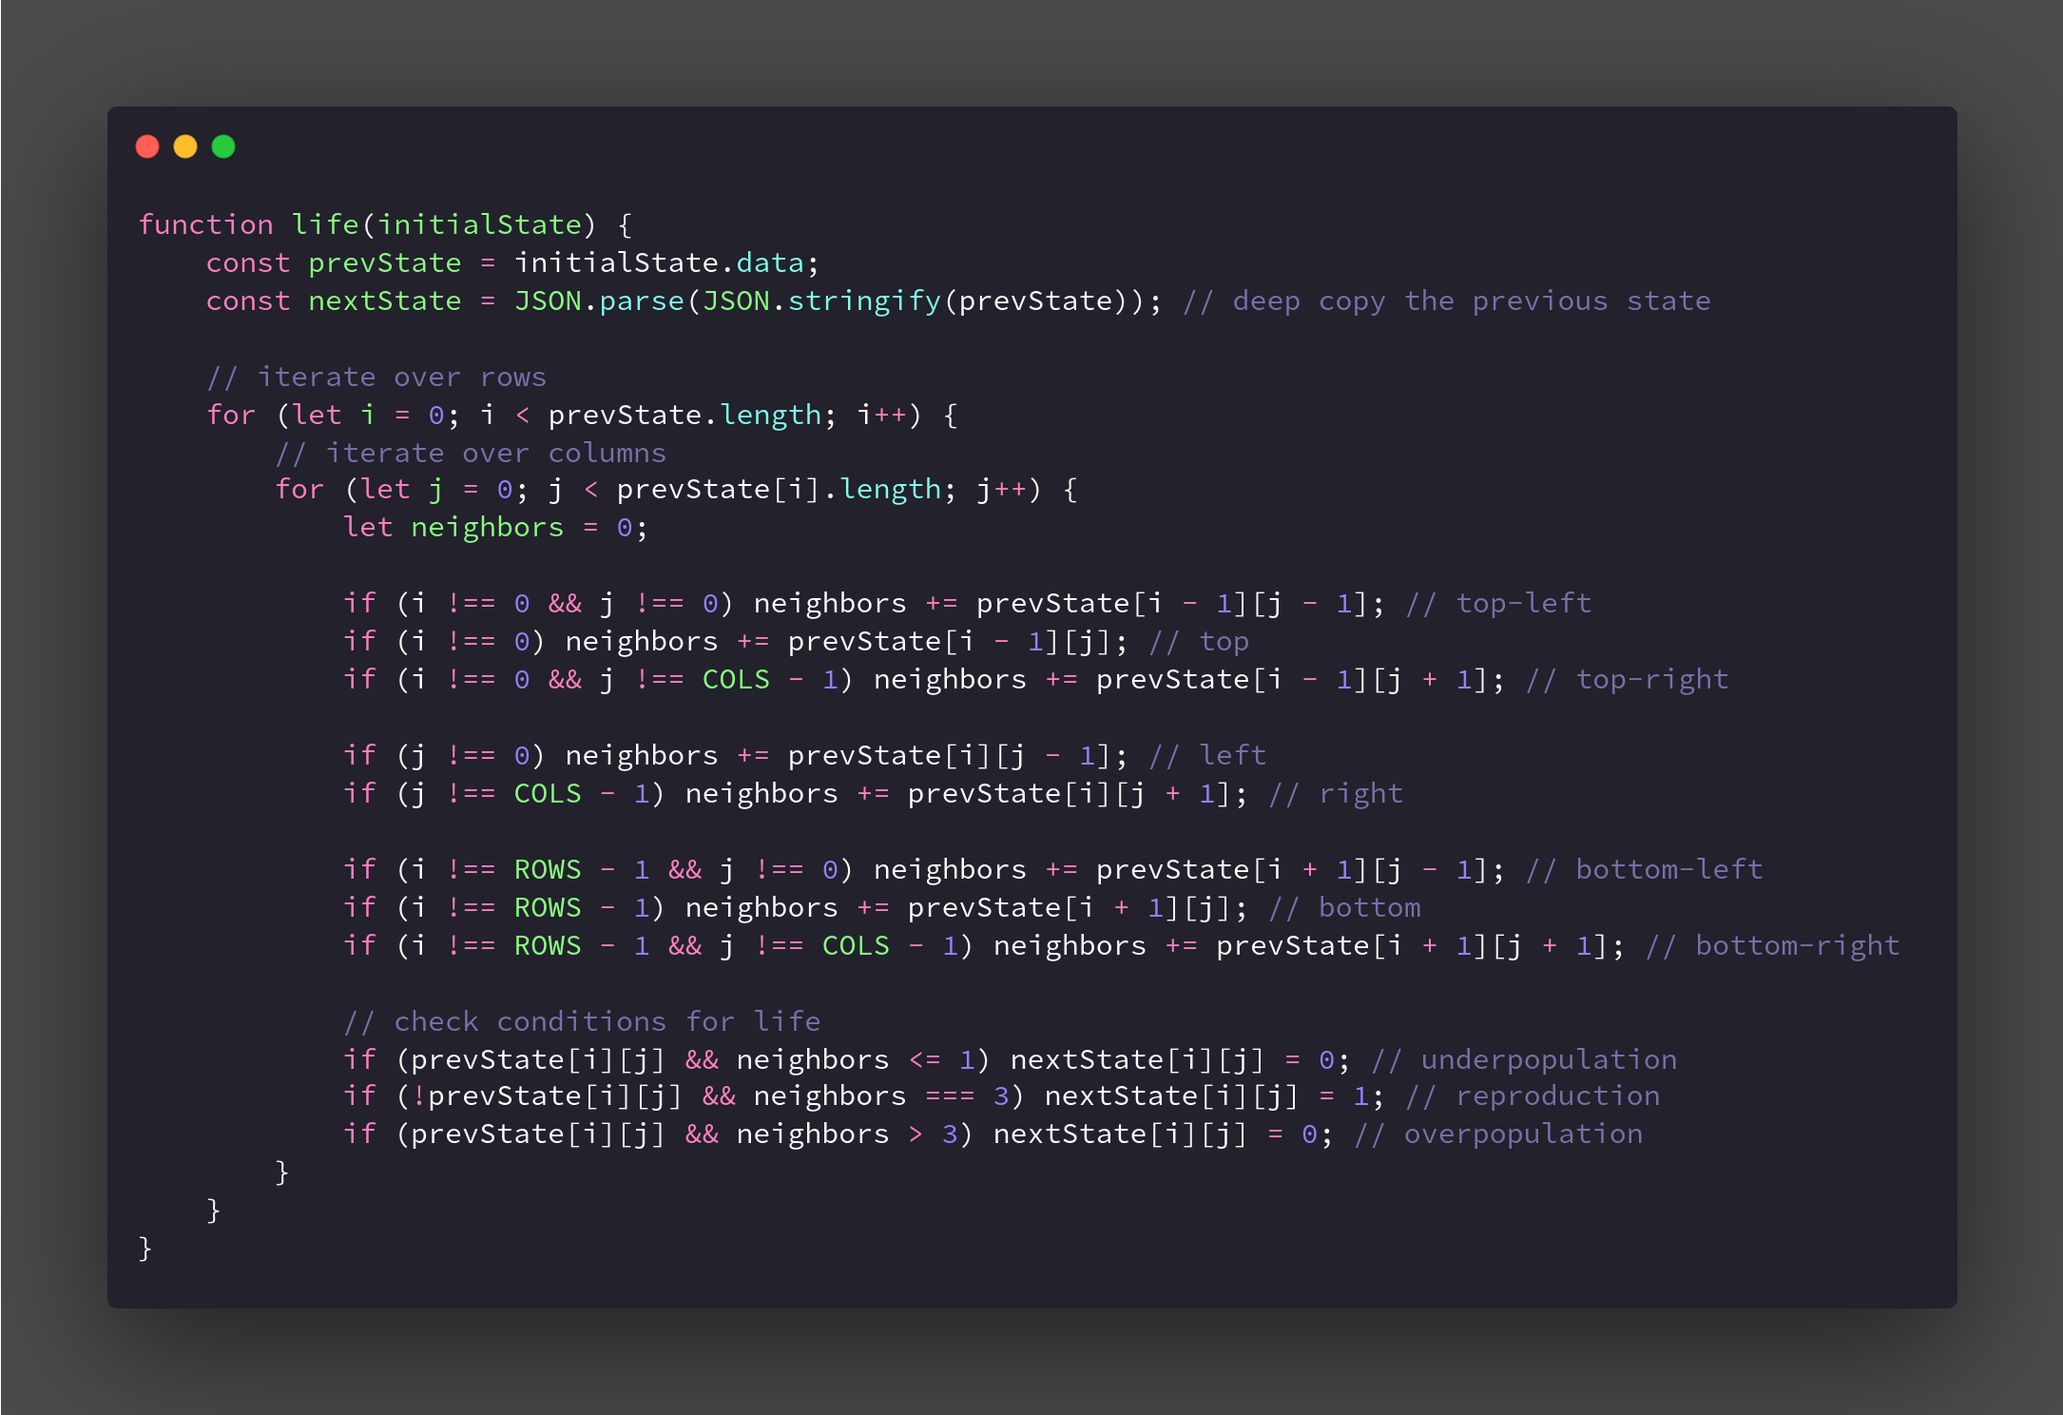
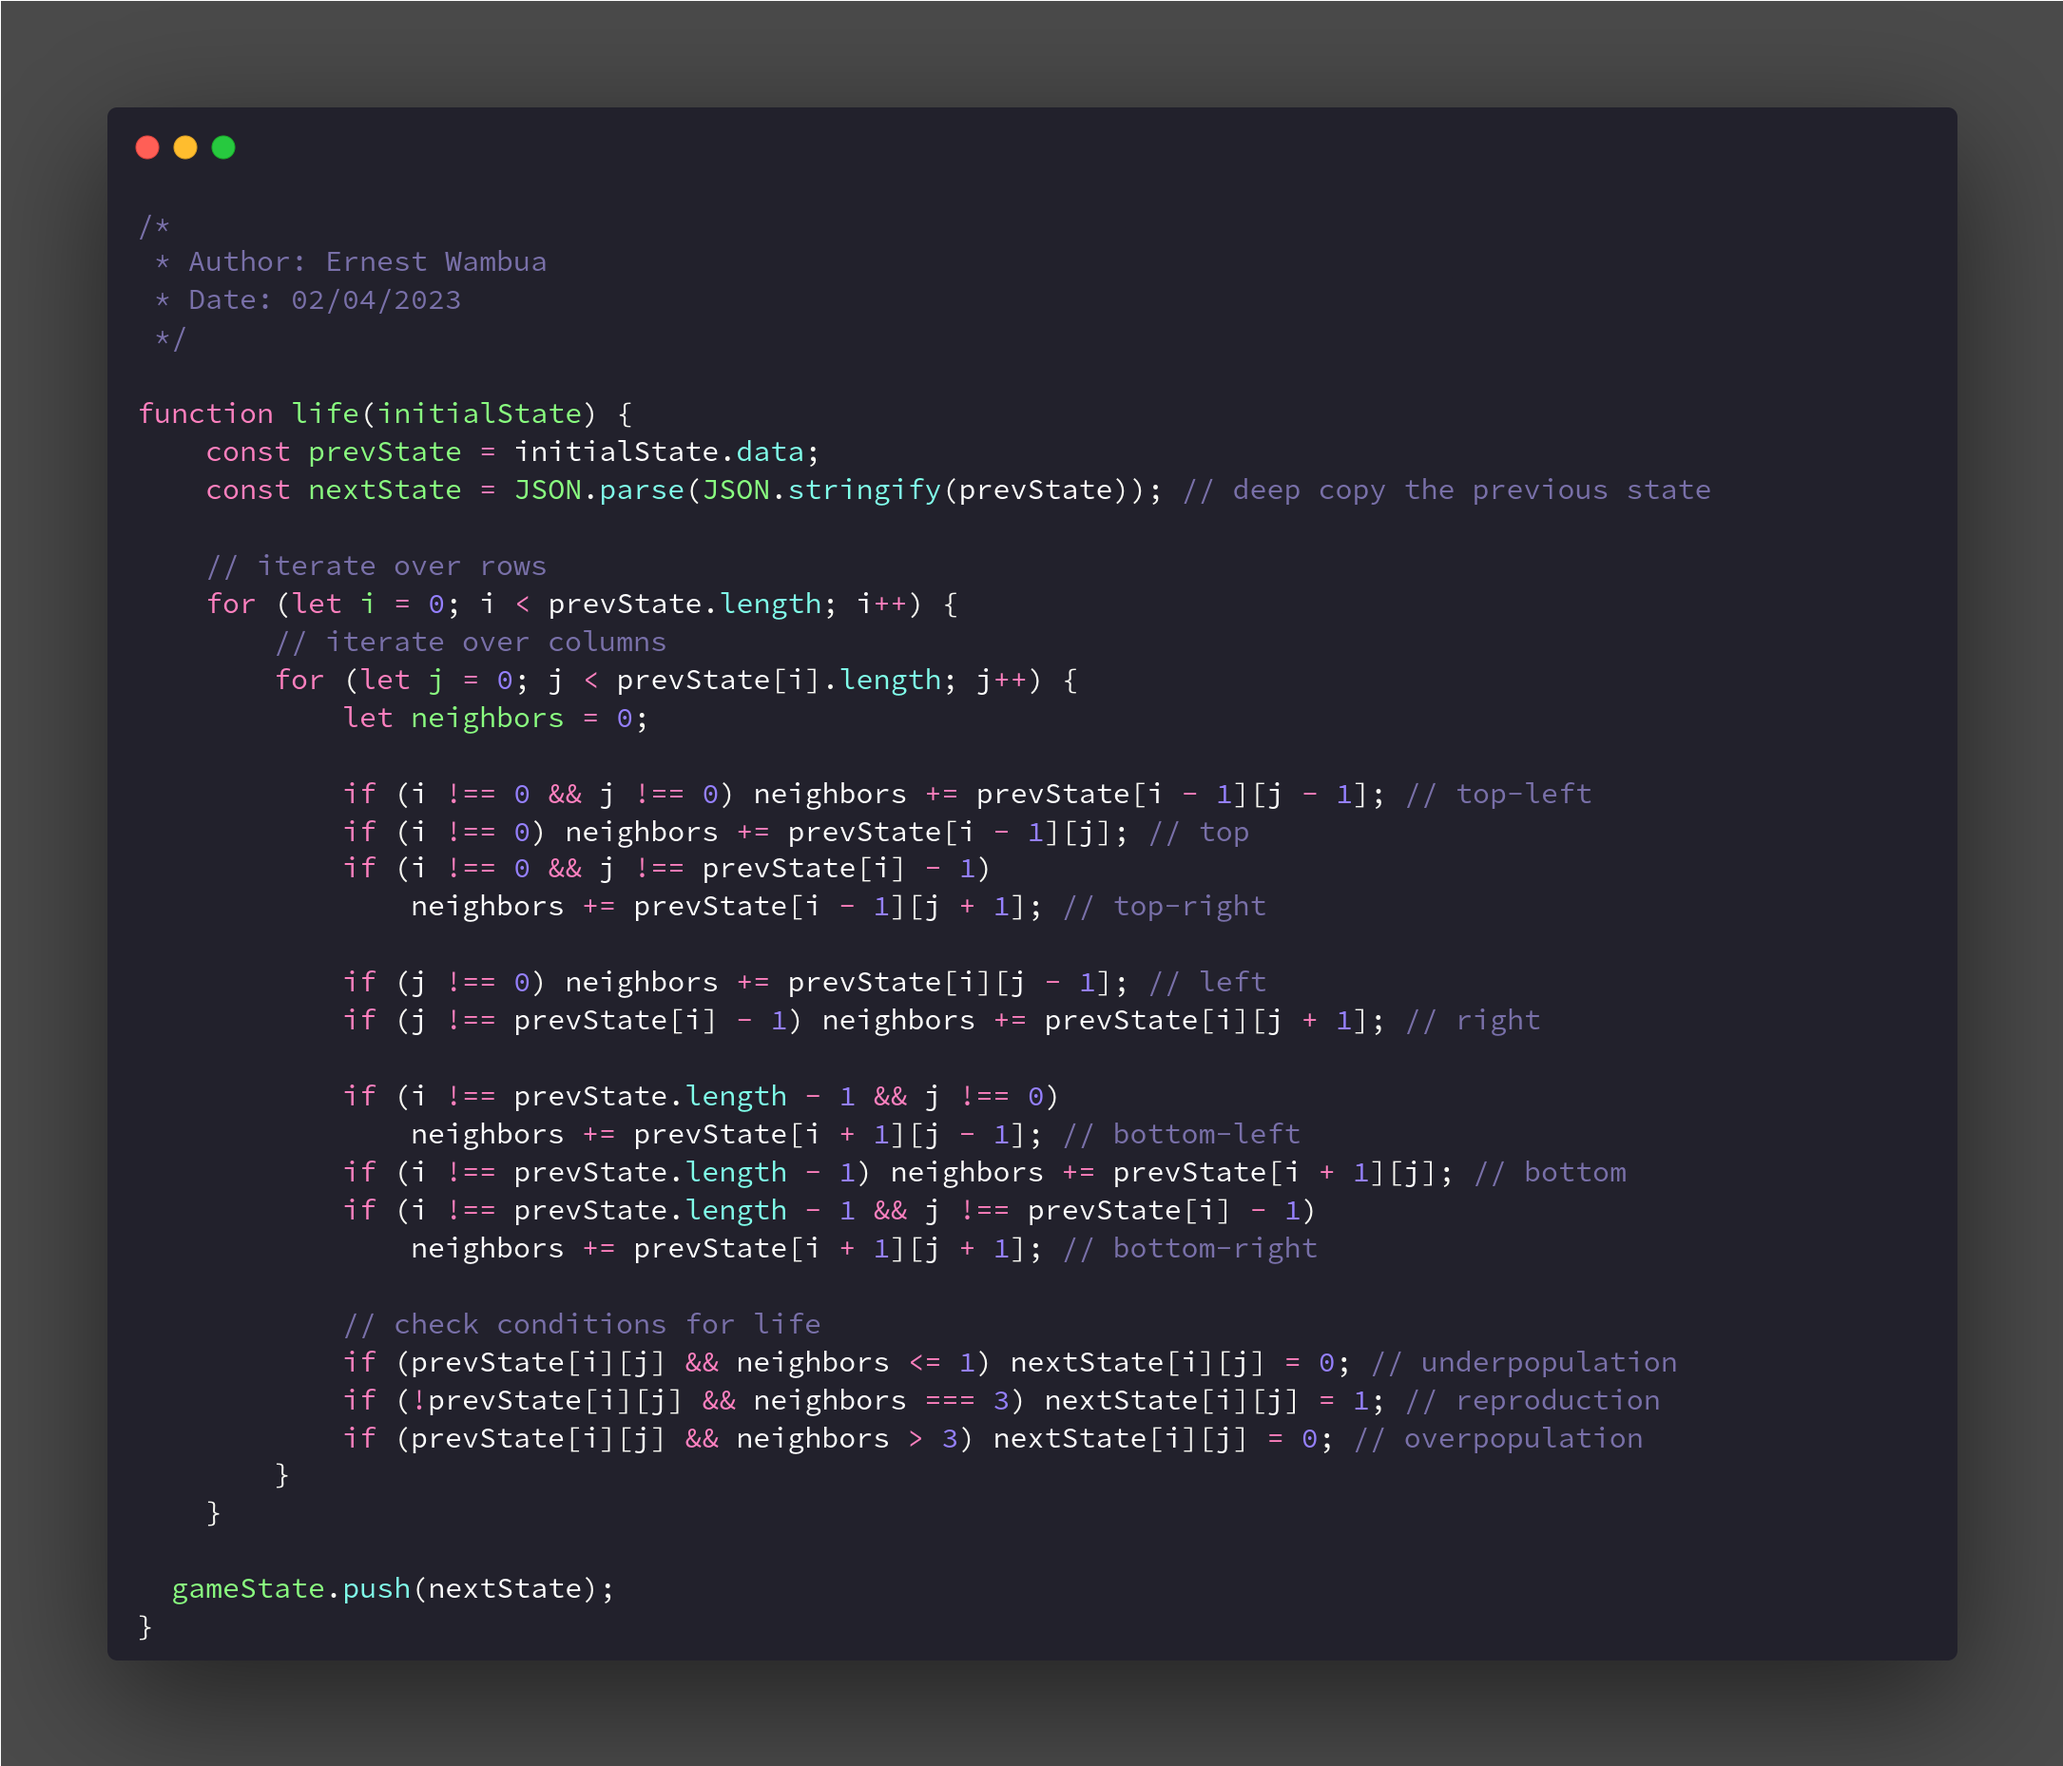
Conway's Game of Life

diff --git a/main.js b/main.js
@@ -93,30 +93,33 @@ function generateStartState(startState) {
 }
 
 function life(initialState) {
-	const cells = initialState.data;
-	const nextStateData = JSON.parse(JSON.stringify(cells)); // deep copy
+	const prevState = initialState.data;
+	const nextStateData = JSON.parse(JSON.stringify(prevState)); // deep copy the previous state
 
 	// iterate over rows
-	for (let i = 0; i < cells.length; i++) {
+	for (let i = 0; i < prevState.length; i++) {
 		// iterate over columns
-		for (let j = 0; j < cells[i].length; j++) {
+		for (let j = 0; j < prevState[i].length; j++) {
 			let neighbors = 0;
 
-			if (i !== 0 && j !== 0) neighbors += cells[i - 1][j - 1]; // top-left
-			if (i !== 0) neighbors += cells[i - 1][j]; // top
-			if (i !== 0 && j !== COLS - 1) neighbors += cells[i - 1][j + 1]; // top-right
+			if (i !== 0 && j !== 0) neighbors += prevState[i - 1][j - 1]; // top-left
+			if (i !== 0) neighbors += prevState[i - 1][j]; // top
+			if (i !== 0 && j !== prevState[i] - 1)
+				neighbors += prevState[i - 1][j + 1]; // top-right
 
-			if (j !== 0) neighbors += cells[i][j - 1]; // left
-			if (j !== COLS - 1) neighbors += cells[i][j + 1]; // right
+			if (j !== 0) neighbors += prevState[i][j - 1]; // left
+			if (j !== prevState[i] - 1) neighbors += prevState[i][j + 1]; // right
 
-			if (i !== ROWS - 1 && j !== 0) neighbors += cells[i + 1][j - 1]; // bottom-left
-			if (i !== ROWS - 1) neighbors += cells[i + 1][j]; // bottom
-			if (i !== ROWS - 1 && j !== COLS - 1) neighbors += cells[i + 1][j + 1]; // bottom-right
+			if (i !== prevState.length - 1 && j !== 0)
+				neighbors += prevState[i + 1][j - 1]; // bottom-left
+			if (i !== prevState.length - 1) neighbors += prevState[i + 1][j]; // bottom
+			if (i !== prevState.length - 1 && j !== prevState[i] - 1)
+				neighbors += prevState[i + 1][j + 1]; // bottom-right
 
 			// check conditions for life
-			if (cells[i][j] && neighbors <= 1) nextStateData[i][j] = 0; // underpopulation
-			if (!cells[i][j] && neighbors === 3) nextStateData[i][j] = 1; // reproduction
-			if (cells[i][j] && neighbors > 3) nextStateData[i][j] = 0; // overpopulation
+			if (prevState[i][j] && neighbors <= 1) nextStateData[i][j] = 0; // underpopulation
+			if (!prevState[i][j] && neighbors === 3) nextStateData[i][j] = 1; // reproduction
+			if (prevState[i][j] && neighbors > 3) nextStateData[i][j] = 0; // overpopulation
 		}
 	}
 
